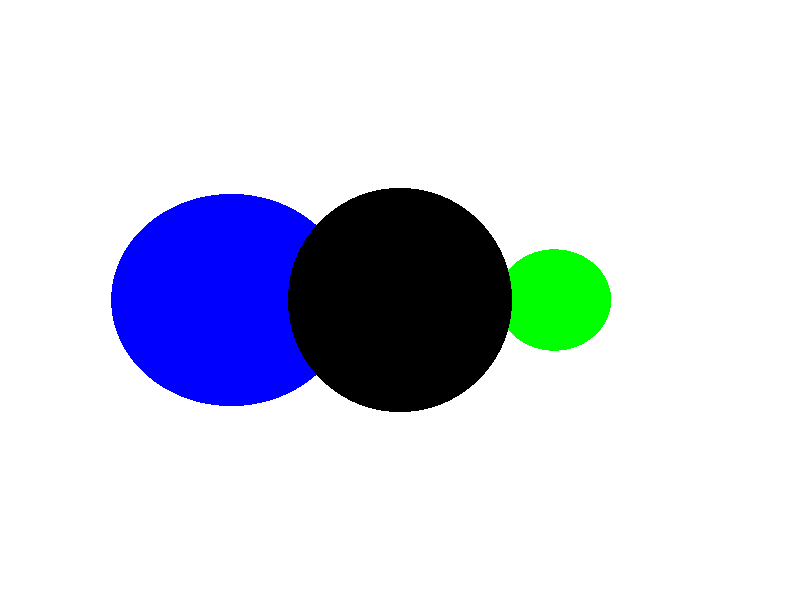
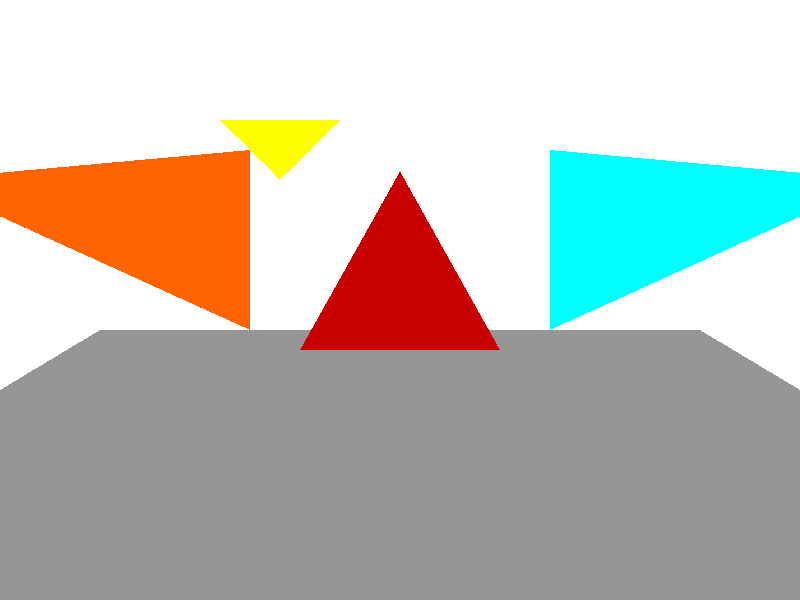
alvarogallo

diff --git a/src/objects/Triangle.java b/src/objects/Triangle.java
@@ -1,0 +1,72 @@
+package objects;
+
+import java.awt.Color;
+import java.util.Optional;
+
+import math.Intersection;
+import math.Matrix3;
+import math.Ray;
+import math.Vector3D;
+
+public class Triangle  implements  Object3D{
+    Vector3D p0;
+    Vector3D p1;
+    Vector3D p2;
+    Color color;
+    
+
+    public Triangle(Vector3D p0, Vector3D p1, Vector3D p2, Color color) {
+        this.p0 = p0;
+        this.p1 = p1;
+        this.p2 = p2;
+        this.color = color;
+    }
+    @Override
+    public Color getColor() {
+        return color;
+    }
+@Override
+    public Optional<Intersection> isHit(Ray ray) {
+        // col0 = -ray.direction
+        Vector3D col0 = ray.getDir().mul(-1);
+        // col1 = p1 - p0
+        Vector3D col1 = p1.add(p0.mul(-1));
+        // col2 = p2 - p0
+        Vector3D col2 = p2.add( p0.mul(-1));
+        // col3 = ray.origin - p0
+        Vector3D col3 = ray.getPos().add(p0.mul(-1));
+
+        // System matrix: M = [col0 | col1 | col2]
+        Matrix3 m = new Matrix3(col0, col1, col2);
+        float d0 = m.determinant();
+
+        if (Math.abs(d0) < 1e-4) {
+            return Optional.empty();
+        }
+
+        float dt = new Matrix3(col3, col1, col2).determinant();
+        float t = dt / d0;
+        if (t < 0) {
+            return Optional.empty(); // Hit is behind the ray origin
+        }
+
+        float du = new Matrix3(col0, col3, col2).determinant();
+        float u = du / d0;
+        if (u < 0 || u > 1) {
+            return Optional.empty();
+        }
+
+        float dv = new Matrix3(col0, col1, col3).determinant();
+        float v = dv / d0;
+        if (v < 0 || v > (1 - u)) {
+            return Optional.empty();
+        }
+
+        // Intersection confirmed
+        Vector3D hitPoint = ray.at(t);
+        
+        Vector3D normal = col1.cross(col2).normalize();
+
+        return Optional.of(new Intersection(this, t));
+    }
+}

diff --git a/src/scene/parsers/TriangleParser.java b/src/scene/parsers/TriangleParser.java
@@ -1,0 +1,51 @@
+package scene.parsers;
+
+import objects.Object3D;
+import objects.Triangle;
+import math.Vector3D;
+
+import java.awt.Color;
+import java.util.Optional;
+
+/**
+ * TriangleParser reads a line with the format:
+ * triangle x0 y0 z0 x1 y1 z1 x2 y2 z2 r g b
+ * Example: "triangle 0 1 0 -1 -1 0 1 -1 0 255 255 255" for a white triangle
+ */
+public class TriangleParser {
+
+  public static Optional<Object3D> parseTriangle(String[] tokens) {
+    if (tokens.length != 13) {
+      System.out.println("Invalid triangle format. Expected: triangle <x0> <y0> <z0> <x1> <y1> <z1> <x2> <y2> <z2> <r> <g> <b>");
+      return Optional.empty();
+    }
+
+    try {
+      float x0 = Float.parseFloat(tokens[1]);
+      float y0 = Float.parseFloat(tokens[2]);
+      float z0 = Float.parseFloat(tokens[3]);
+      
+      float x1 = Float.parseFloat(tokens[4]);
+      float y1 = Float.parseFloat(tokens[5]);
+      float z1 = Float.parseFloat(tokens[6]);
+      
+      float x2 = Float.parseFloat(tokens[7]);
+      float y2 = Float.parseFloat(tokens[8]);
+      float z2 = Float.parseFloat(tokens[9]);
+
+      // Color components (0-255)
+      int r = Integer.parseInt(tokens[10]);
+      int g = Integer.parseInt(tokens[11]);
+      int b = Integer.parseInt(tokens[12]);
+
+      Vector3D p0 = new Vector3D(x0, y0, z0);
+      Vector3D p1 = new Vector3D(x1, y1, z1);
+      Vector3D p2 = new Vector3D(x2, y2, z2);
+
+      return Optional.of(new Triangle(p0, p1, p2, new Color(r, g, b)));
+    } catch (NumberFormatException e) {
+      System.err.println("Error parsing triangle: " + e.getMessage());
+      return Optional.empty();
+    }
+  }
+}

diff --git a/src/math/Matrix3.java b/src/math/Matrix3.java
@@ -1,0 +1,49 @@
+package math;
+
+public class Matrix3 {
+    Vector3D c0;
+    Vector3D c1;
+    Vector3D c2;
+
+    public Matrix3(Vector3D c0, Vector3D c1, Vector3D c2) {
+        this.c0 = c0;
+        this.c1 = c1;
+        this.c2 = c2;
+    }
+    public Vector3D getColumn(int j) {
+        switch (j) {
+            case 0 -> {
+                return c0;
+            }
+            case 1 -> {
+                return c1;
+            }
+            case 2 -> {
+                return c2;
+            }
+            default -> throw new IndexOutOfBoundsException("Column index must be 0, 1, or 2");
+        }
+    }
+
+    public float get(int i, int j) {
+        Vector3D col = getColumn(j);
+        switch (i) {
+            case 0 -> {
+                return col.getX();
+            }
+            case 1 -> {
+                return col.getY();
+            }
+            case 2 -> {
+                return col.getZ();
+            }
+            default -> throw new IndexOutOfBoundsException("Row index must be 0, 1, or 2");
+        }
+    }
+    public float determinant() {
+        float minor0 = c1.getY() * c2.getZ() - c1.getZ() * c2.getY();
+        float minor1 = c0.getY() * c2.getZ() - c0.getZ() * c2.getY();
+        float minor2 = c0.getY() * c1.getZ() - c0.getZ() * c1.getY();
+        return c0.getX() * minor0 - c1.getX() * minor1 + c2.getX() * minor2;
+    }
+}

diff --git a/src/scene/Camera.java b/src/scene/Camera.java
@@ -3,12 +3,20 @@
 // - lets consumer handle ray tracing and color assignment
 
 package scene;
-import math.Vector3D;
 import math.Ray;
+import math.Vector3D;
 public class Camera {
   private int width;
   private int height;
 
+  private float fov;
+
+  private Vector3D pos;
+  private Vector3D up;
+  private Vector3D lookAt;
+
+  private float near;
+  private float far;
   public int getWidth() {
     return width;
   }
@@ -17,19 +25,16 @@ public class Camera {
     return height;
   }
 
-  private float fov;
 
-  private Vector3D pos;
-  private Vector3D up;
-  private Vector3D lookAt;
-
-  public Camera(int width, int height, float fov, Vector3D pos, Vector3D up, Vector3D lookAt) {
+  public Camera(int width, int height, float fov, Vector3D pos, Vector3D up, Vector3D lookAt, float near, float far) {
     this.width = width;
     this.height = height;
     this.fov = fov;
     this.pos = pos;
     this.up = up;
     this.lookAt = lookAt;
+    this.near = near;
+    this.far = far;
   }
 
   @FunctionalInterface

diff --git a/src/math/Interval.java b/src/math/Interval.java
@@ -1,0 +1,24 @@
+package math;
+
+public final class Interval {
+  final private float min;
+  final private float max;
+  Interval(float mn, float mx) {
+    this.min = mn;
+    this.max = mx;
+  }
+
+  public float size() {
+    return max - min;
+  }
+
+  public boolean contains(float x) {
+    return min <= x && x <= max;
+  }
+
+  public boolean surrounds(float x) {
+    return min < x && x < max;
+  }
+  public static final  Interval empty = new Interval(Float.POSITIVE_INFINITY, Float.NEGATIVE_INFINITY);
+  public static final  Interval universe = new Interval(Float.NEGATIVE_INFINITY, Float.POSITIVE_INFINITY);
+}

diff --git a/src/scene/Parsers.java b/src/scene/Parsers.java
@@ -3,9 +3,9 @@ package scene;
 
 import java.util.Map;
 import java.util.Optional;
-
 import objects.Object3D;
 import scene.parsers.SphereParser;
+import scene.parsers.TriangleParser;
 
 /**
  * Parsers
@@ -17,5 +17,6 @@ public class Parsers {
     Optional<Object3D> parse(String[] tokens);
   }
 
-  public static Map<String, Parser> parsers = Map.of("sphere", SphereParser::parseSphere);
+  public static Map<String, Parser> parsers = Map.of("sphere", SphereParser::parseSphere,"triangle", TriangleParser::parseTriangle
+  );
 }
